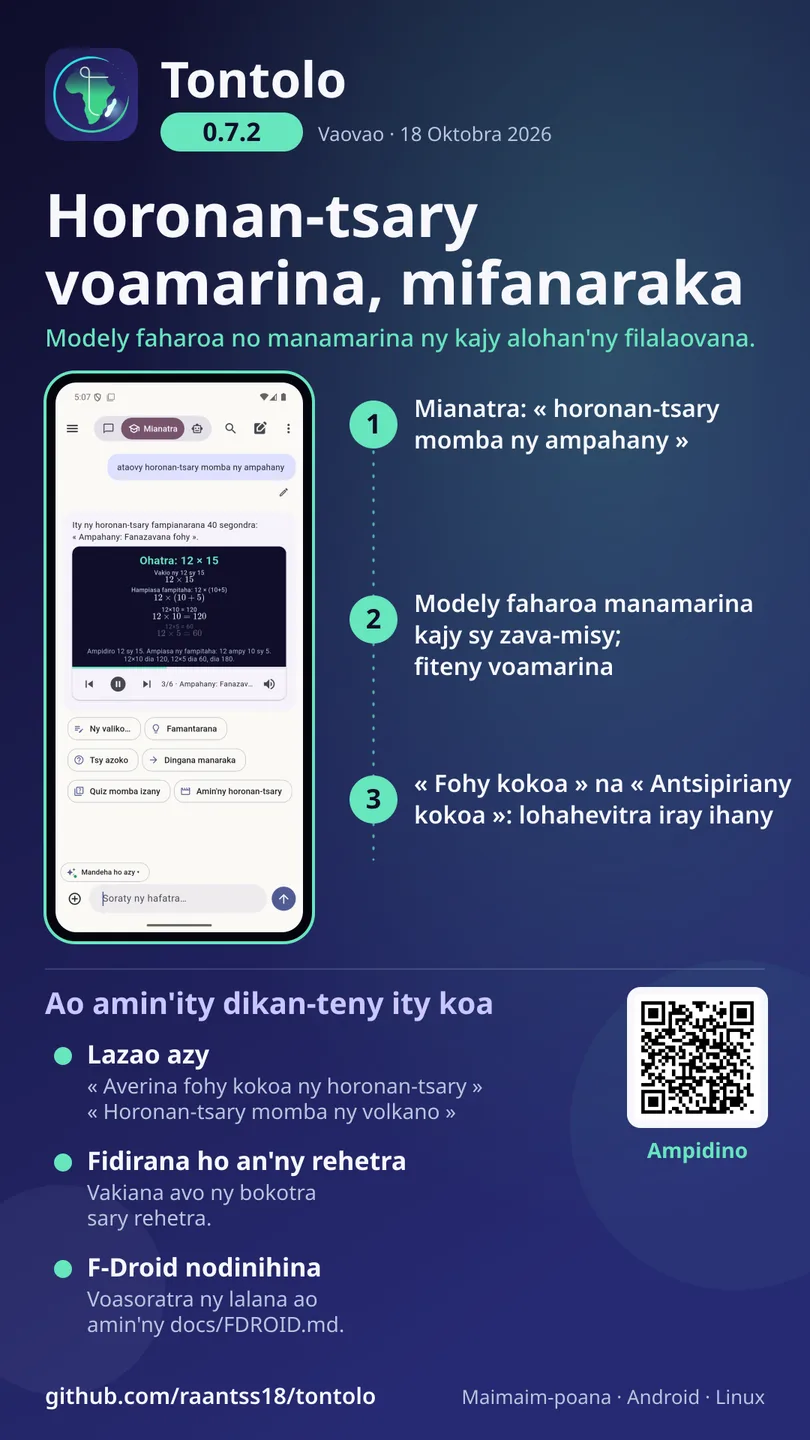
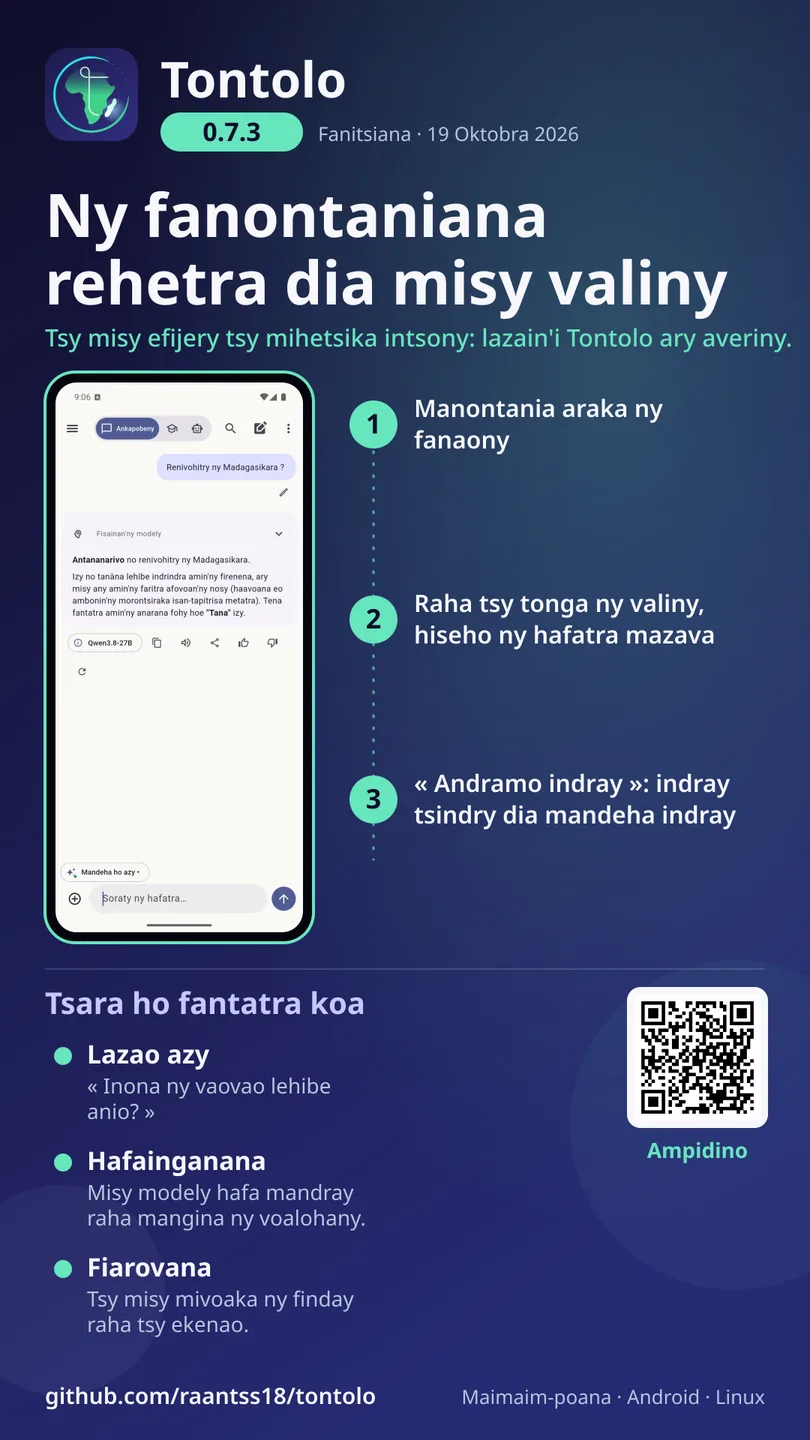
chore(release): v0.7.3 — plus de question restée sans réponse ni message

diff --git a/app/lib/l10n/strings.dart b/app/lib/l10n/strings.dart
@@ -146,6 +146,7 @@ const Map<String, Map<String, String>> _t = {
     'err_no_source': 'Les sources gratuites pour ce média sont en pause.',
     'err_no_video': 'La source vidéo gratuite est en pause (GPU partagé saturé ou quota du jour atteint).',
     'err_back_at': 'Retour estimé vers {t} : Tontolo vous préviendra.',
+    'err_no_answer': 'La réponse n\'est pas arrivée (connexion coupée ou modèle muet). Touchez Réessayer.',
     'err_offline': 'Pas de connexion Internet. Vérifiez le Wi-Fi ou les données mobiles.',
     'err_all_failed': 'Tous les modèles gratuits disponibles ont échoué pour le moment.',
     'err_no_model': 'Aucun modèle gratuit disponible pour cette tâche. Ajoutez une clé gratuite dans Réglages ou réessayez plus tard.',
@@ -851,6 +852,7 @@ const Map<String, Map<String, String>> _t = {
     'err_no_source': 'The free sources for this media are paused.',
     'err_no_video': 'The free video source is paused (shared GPU busy or daily quota reached).',
     'err_back_at': 'Expected back around {t}: Tontolo will let you know.',
+    'err_no_answer': 'The answer did not arrive (connection lost or silent model). Tap Retry.',
     'err_offline': 'No Internet connection. Check Wi-Fi or mobile data.',
     'err_all_failed': 'All available free models failed for now.',
     'err_no_model': 'No free model available for this task. Add a free key in Settings or try again later.',
@@ -1429,6 +1431,7 @@ const Map<String, Map<String, String>> _t = {
     'err_no_source': 'Mijanona vetivety ireo loharano maimaim-poana ho an\'ity karazana ity.',
     'err_no_video': 'Mijanona vetivety ny loharano horonan-tsary maimaim-poana (be loatra ny mpampiasa na lany ny fetran\'ny anio).',
     'err_back_at': 'Miverina eo amin\'ny {t} eo ho eo: hampandrenesin\'i Tontolo ianao.',
+    'err_no_answer': 'Tsy tonga ny valiny (tapaka ny fifandraisana na mangina ny modely). Tsindrio Andramo indray.',
     'err_offline': 'Tsy misy fifandraisana Internet. Jereo ny Wi-Fi na ny data finday.',
     'err_all_failed': 'Tsy nahomby aloha ireo modely maimaim-poana rehetra misy.',
     'err_no_model': 'Tsy misy modely maimaim-poana ho an\'ity asa ity. Ampio fanalahidy maimaim-poana ao amin\'ny Kirakira na andramo any aoriana.',

diff --git a/app/lib/core/whats_new.dart b/app/lib/core/whats_new.dart
@@ -14,6 +14,12 @@ class NewsItem {
 }
 
 const whatsNew = <String, List<NewsItem>>{
+  '0.7.3': [
+    NewsItem(Icons.sync_problem_outlined, 'Plus de questions restées sans réponse',
+        'Si une réponse ne vient pas (connexion coupée, modèle muet), Tontolo le dit clairement et propose « Réessayer » au lieu de laisser l\'écran immobile.',
+        'No more unanswered questions', 'If an answer never comes (connection lost, silent model), Tontolo says so clearly and offers “Retry” instead of leaving the screen idle.',
+        mg: 'Tsy misy fanontaniana tsy mamaly intsony', mgText: 'Raha tsy tonga ny valiny (tapaka ny fifandraisana, mangina ny modely), dia lazain\'i Tontolo mazava izany ary manolotra « Andramo indray » fa tsy mamela ny efijery tsy mihetsika.'),
+  ],
   '0.7.2': [
     NewsItem(Icons.fact_check_outlined, 'Des vidéos relues avant d\'être jouées',
         'Un second modèle vérifie les calculs et les faits du scénario, et la langue est contrôlée. Sous la vidéo, « Plus court » ou « Plus détaillée » la refait sur le même sujet, sans rien retaper.',

diff --git a/app/test/chat_isolation_test.dart b/app/test/chat_isolation_test.dart
@@ -88,4 +88,19 @@ void main() {
     expect(chat.earlierLeft, 0);
     chat.dispose();
   });
+
+  test('question restée sans réponse ni tour en cours : message clair, jamais un écran muet', () async {
+    SharedPreferences.setMockInitialValues({});
+    final backend = DelayedBackend(await Prefs.load());
+    final chat = ChatController(backend);
+    final opening = chat.open('a');
+    backend.responses['/tontolo/conversations/a']!.complete({
+      'active': false,
+      'messages': [{'role': 'user', 'content': 'Quelles sont les actualités importantes aujourd\'hui ?'}],
+    });
+    await opening;
+    expect(chat.messages.last.role, 'notice');
+    expect(chat.messages.last.text, startsWith('errorc|no_answer'));
+    chat.dispose();
+  });
 }

diff --git a/app/lib/core/chat_controller.dart b/app/lib/core/chat_controller.dart
@@ -359,6 +359,11 @@ class ChatController extends ChangeNotifier {
       await _loadDocuments();
       if (epoch != _epoch) return;
       busy = false;
+      // Une question restée sans réponse et sans tour en cours (connexion coupée, application
+      // fermée) : on le dit et on propose « Réessayer » au lieu d'un écran muet.
+      if (data['active'] == false && messages.isNotEmpty && messages.last.role == 'user') {
+        messages.add(ChatMessage(role: 'notice', text: 'errorc|no_answer||'));
+      }
       notifyListeners();
       // Réponse encore en cours de génération : on s'y rattache (rejeu puis direct).
       if (data['active'] == true && conversationId == id) _run(backend.follow(id), replay: true);

diff --git a/app/lib/ui/chat_screen.dart b/app/lib/ui/chat_screen.dart
@@ -897,6 +897,7 @@ String _errorText(BuildContext context, List<String> parts) {
     'offline' => context.t('err_offline'),
     'all_failed' => context.t('err_all_failed'),
     'no_model' => context.t('err_no_model'),
+    'no_answer' => context.t('err_no_answer'),
     'strict_waiting' => context.t('err_strict'),
     'agent_timeout' => context.t('err_agent_timeout'),
     'agent_steps' => context.t('err_agent_steps'),

diff --git a/app/lib/core/updater.dart b/app/lib/core/updater.dart
@@ -23,7 +23,7 @@ import '../l10n/strings.dart';
 import 'prefs.dart';
 import 'update_key.dart';
 
-const appVersion = '0.7.2';
+const appVersion = '0.7.3';
 const repo = 'raantss18/tontolo';
 
 enum UpdateStatus { idle, checking, downloading, ready, failed, upToDate }

diff --git a/core/tests/test_fallback.py b/core/tests/test_fallback.py
@@ -3,6 +3,7 @@
 from __future__ import annotations
 
 import time
+from collections.abc import AsyncIterator
 from typing import Any
 
 import pytest
@@ -239,3 +240,18 @@ async def test_silent_primary_is_covered_by_the_next_model(router: Router,
     done = next(e for e in events if e["type"] == "done")
     assert done["model"] != first.key and done["model"] == switches[0]["to"]
     assert not [e for e in events if e["type"] == "error"]
+
+
+async def test_turn_without_answer_never_ends_silently(router: Router, db: Database,
+                                                       settings: Settings,
+                                                       monkeypatch: pytest.MonkeyPatch) -> None:
+    """Un routeur qui s'arrête sans réponse ni erreur doit produire une erreur lisible."""
+    async def mute(*args: Any, **kwargs: Any) -> AsyncIterator[dict[str, Any]]:
+        return
+        yield  # pragma: no cover
+
+    monkeypatch.setattr(router, "run", mute)
+    chat = ChatService(settings, db, router)
+    events = await collect(chat.send(None, "Quelles sont les actualités ?", use_tools=False))
+    errors = [e for e in events if e["type"] == "error"]
+    assert errors and errors[-1]["code"] == "no_answer"

diff --git a/core/tontolo/agent/loop.py b/core/tontolo/agent/loop.py
@@ -914,6 +914,10 @@ class ChatService:
                 if ev["type"] in ("error", "paid_confirmation"):
                     return
             if final is None:
+                # Le routeur s'est arrêté sans réponse ni erreur : jamais de silence (la personne
+                # verrait sa question sans suite). Message clair + « Réessayer » côté application.
+                yield {"type": "error", "code": "no_answer",
+                       "message": "Aucune réponse reçue. Réessayez."}
                 return
             msg = final["message"]
             if final.get("finish_reason") == "length" and not msg.get("tool_calls"):

diff --git a/core/tontolo/__init__.py b/core/tontolo/__init__.py
@@ -1,3 +1,3 @@
 """Tontolo — hub d'IA libre qui route vers le meilleur modèle gratuit disponible."""
 
-__version__ = "0.7.2"
+__version__ = "0.7.3"

diff --git a/CHANGELOG.md b/CHANGELOG.md
@@ -5,6 +5,15 @@ Format : [Keep a Changelog](https://keepachangelog.com/fr/1.1.0/), versionnement
 
 ## [Non publié]
 
+## [0.7.3] - 2026-10-19
+
+### Corrigé
+- Une question pouvait rester sans réponse ni message (rapporté sur téléphone : « Quelles sont les
+  actualités importantes aujourd'hui ? », écran immobile). Le cœur ne termine plus jamais un tour
+  en silence (erreur « Aucune réponse reçue »), et l'application, en rouvrant une discussion dont
+  la dernière ligne est une question sans réponse ni tour en cours (connexion coupée, application
+  fermée), l'indique et propose « Réessayer ».
+
 ## [0.7.2] - 2026-10-18
 
 ### Ajouté
